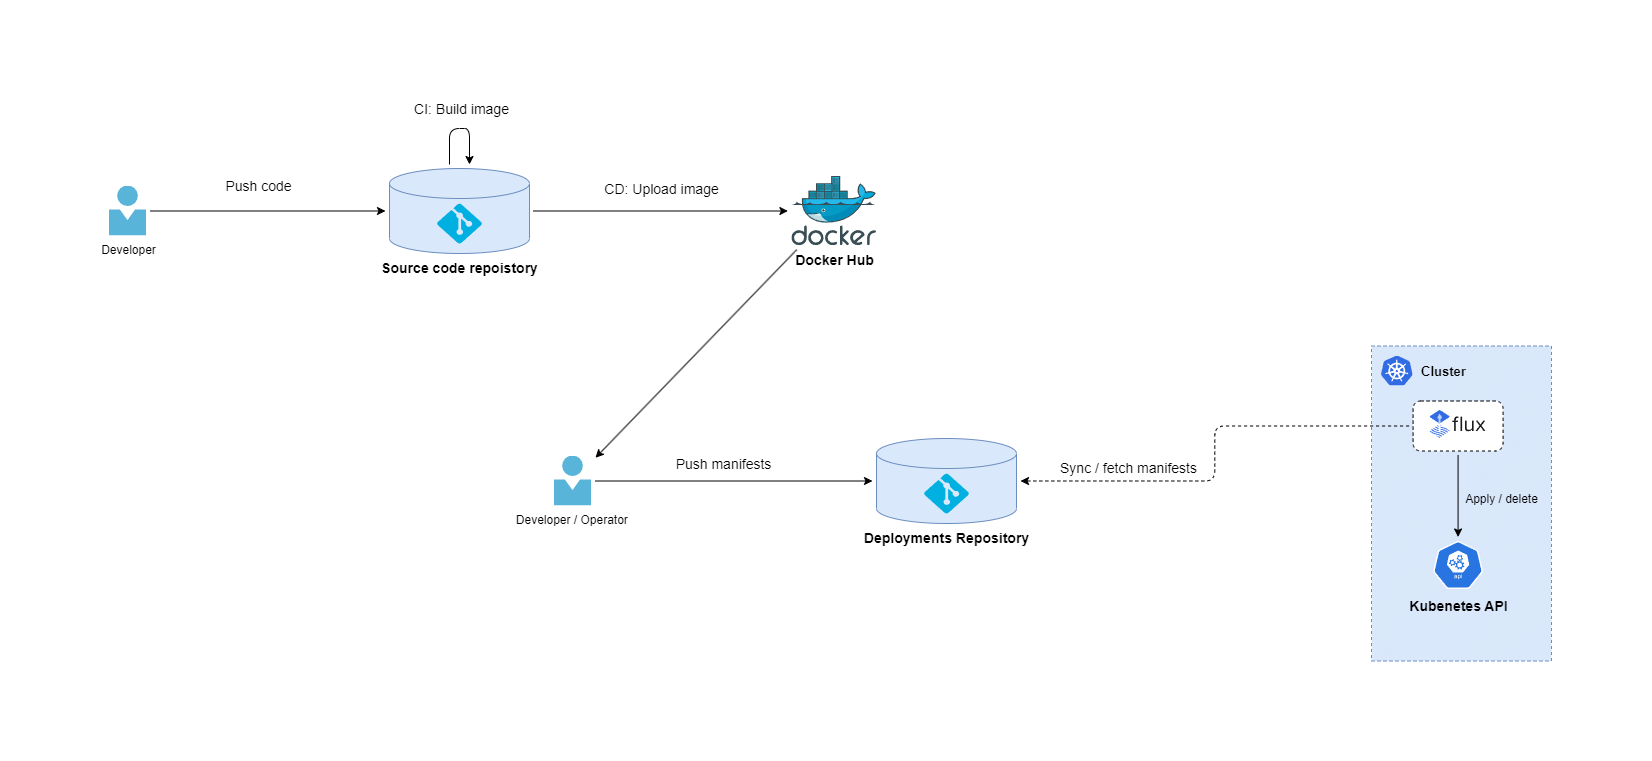
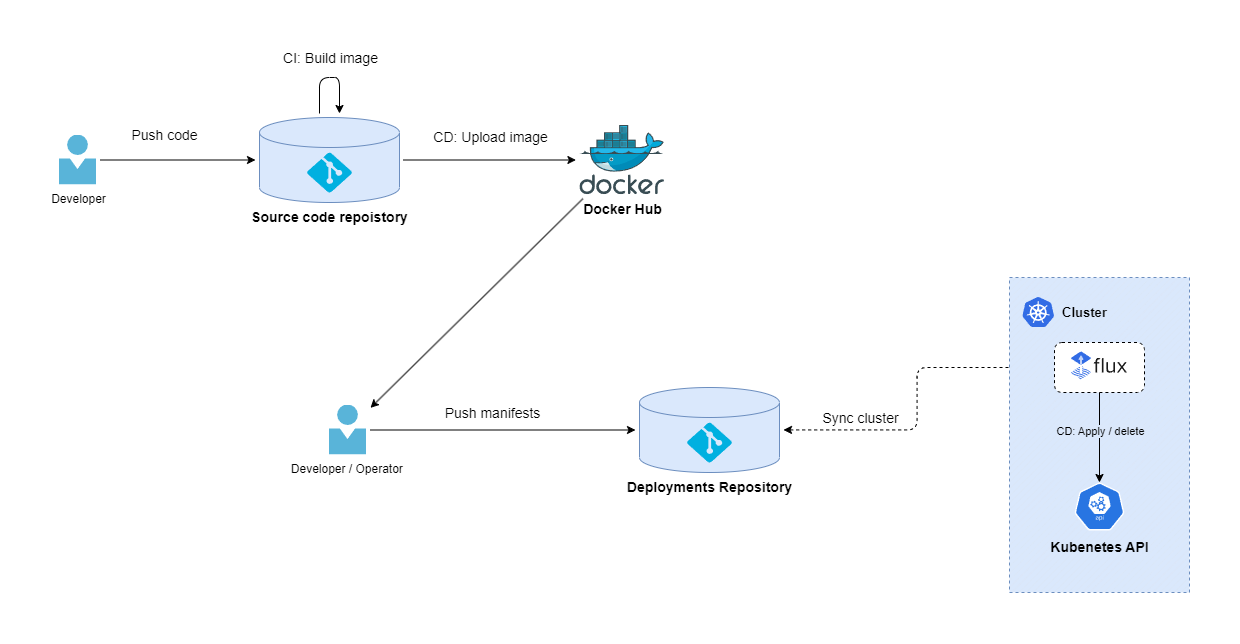
Update readme + deployment flow diagram

diff --git a/README.md b/README.md
@@ -43,7 +43,7 @@ Prometheus is Open-source monitoring and alerting solution that will be used for
 
 ### Flux (CD)
 
-A open-source set of continuous delivery solutions for Kubernetes that will be used to handle the deployments to the cluster. Flux will listen for changes to a deployment git repository and then sync the state between the repository, containing the manifests describing the cluster state, and the cluster. Flux supports a pull model, which is ideal for this cluster, since it runs on a private network and is not directly exposed to the internet.
+A open-source set of continuous delivery solutions for Kubernetes that will be used to handle the deployments to the cluster. Flux will listen for changes to a deployment git repository and then sync the state between the repository, containing the manifests describing the cluster state, and the cluster. Flux supports a pull model, which is ideal for this cluster, since it runs on a private network and is not directly exposed to the internet. To deploy to the cluster, you just have to push a new manifest to <PROJECT_ROOT>/clusters/pi-cluster
 
 ### nordnet-fetch
 
